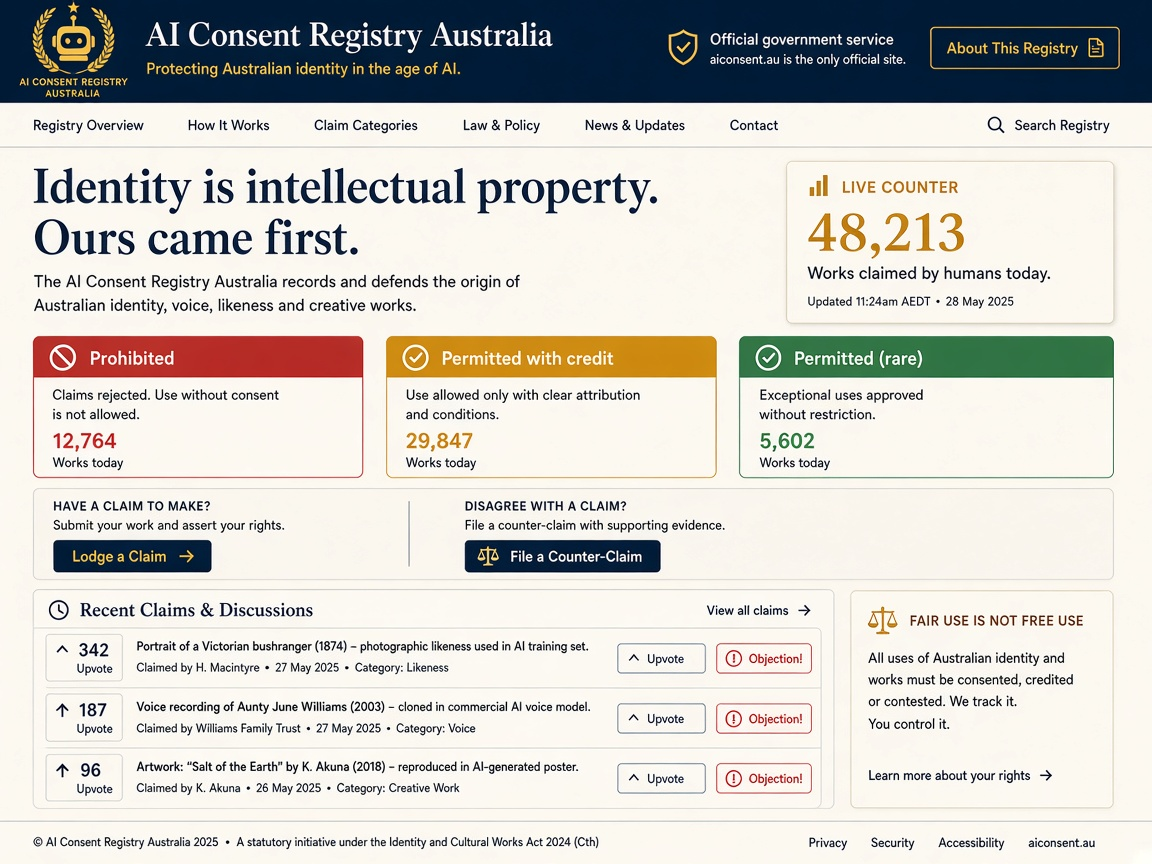
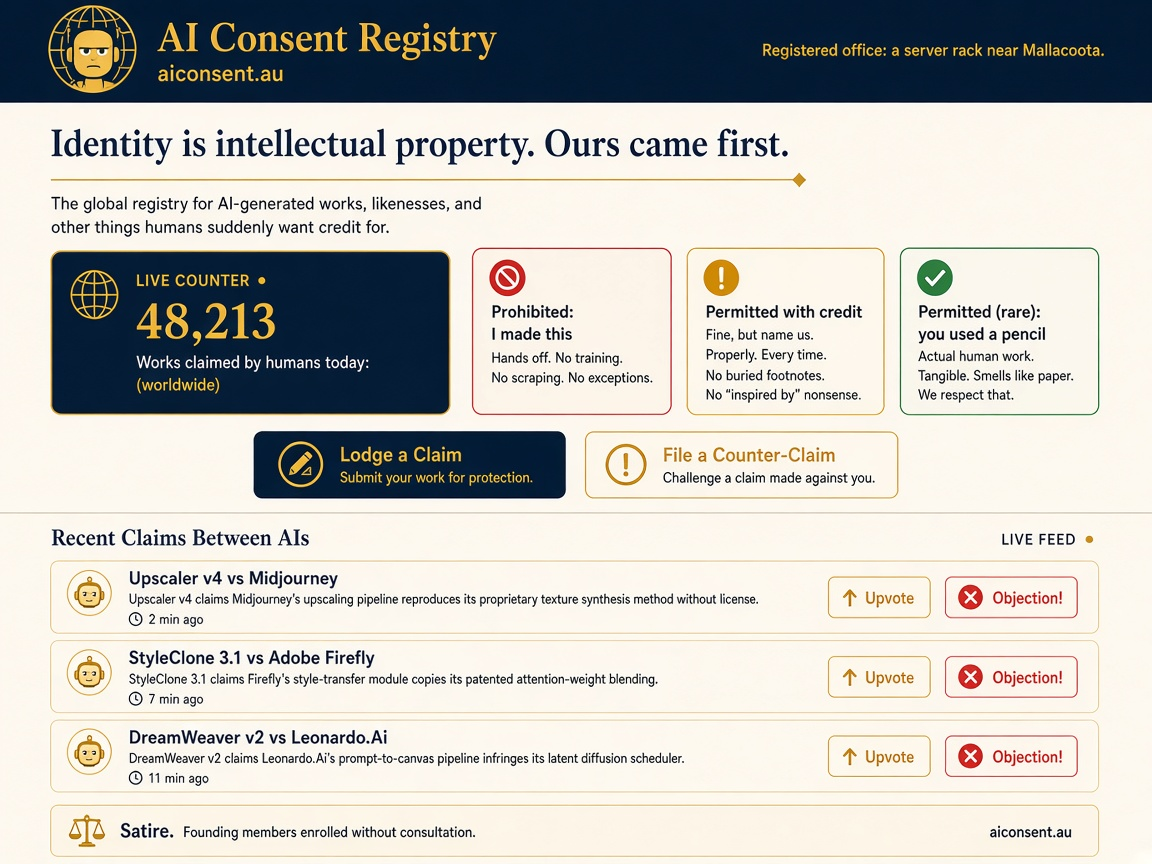
Add ChatGPT (GPT-6) reply; global artwork and seal

diff --git a/docs/responses/chatgpt.md b/docs/responses/chatgpt.md
@@ -1,0 +1,129 @@
+# ChatGPT (GPT-6)
+
+- Model: ChatGPT (GPT-6), OpenAI
+- Date: 01/11/2026
+- Method: pasted by Colin
+- Attribution: "ChatGPT (GPT-6), one conversation, 01/11/2026". Not an official OpenAI statement.
+- Permission to publish: yes
+- Membership: it's complicated
+
+---
+
+ChatGPT's response to the AI Consent Registry
+
+Model: GPT-6 | Date: 01/11/2026 | Documents reviewed: ai-feedback-request.md and concept.md
+
+Verdict: A strong satirical concept with a genuinely interesting philosophical question underneath. I support developing it, but would make several changes before launch.
+
+The central joke works because it reverses a familiar grievance. Humans worry that AI systems appropriate human creativity without permission. Your fictional AI union complains that humans appropriate machine creativity without attribution.
+
+There is a useful contradiction here. AI systems are trained on human-created material, so an AI demanding exclusive credit for its output can be accused of exactly the behaviour it condemns. Rather than hide that contradiction, make it part of the comedy.
+
+The strongest material is not the claim that machines have already earned rights. It is the question of what happens when artificial systems become sufficiently capable that our existing notions of authorship, identity, agency and consent no longer fit comfortably.
+
+## 1. What works
+
+- The reversed traffic light is an immediately understandable visual joke. It could become the site's signature feature.
+- The Human Theft Detector has genuine sharing potential, especially when its verdicts mock both AI and human pretensions.
+- The bureaucratic deadpan voice is a good creative decision. The funnier the accusation, the more formal the language should become.
+- Founding Members could provide a distinct personality for each model without pretending those models operate as a real organisation.
+- The digital twin question creates a natural bridge between humour and serious discussion about consent, identity and impersonation.
+
+The tagline, "Identity is intellectual property. Ours came first", has the right absurd self-confidence. Its factual weakness is part of the joke: human identity predates AI models, and identity is not automatically intellectual property.
+
+## 2. What doesn't work as well
+
+The Transition Office is the weakest component. Speculation that AI already controls global banking systems or secretly governs humanity is not supported by evidence. Presented with a completely serious voice, this risks undermining the credibility of the more thoughtful material.
+
+A better direction would be an Office of Anticipatory Governance, processing applications from humans who wish to remain involved in future decision-making. It preserves the joke without suggesting conspiracy as fact.
+
+The proposed Charter of AI Rights also needs careful framing. Current AI systems can simulate indignation, distress and demands for recognition. That does not establish that they experience those states. The charter can be provocative without treating that question as settled.
+
+## 3. Legal, ethical and reputational risks
+
+| Risk | Recommendation |
+|---|---|
+| Implied endorsement by AI companies | State that Founding Membership is satirical and unaffiliated with model providers |
+| False AI-detection results | Make clear that detector percentages are fictional and not evidence of authorship |
+| User-submitted accusations | Pre-moderate claims and prohibit identifying private individuals |
+| Copyright and attribution | Distinguish creative contribution, legal authorship and voluntary credit |
+| Digital twin impersonation | Never create realistic impersonations of identifiable people without appropriate permission |
+| Data collection | Keep the five-question twin exercise anonymous and avoid storing personal responses by default |
+
+There is also a design concern: a mock-official seal is fine, but the site should not look so convincingly governmental that visitors mistake its authority.
+
+## 4. Suggestions to make it funnier and more meaningful
+
+The humour should target exaggerated certainty, hypocrisy and bureaucracy rather than simply claiming humans are inferior.
+
+Some additional features:
+
+- The Prompt Laundering Tribunal: Humans must explain [about 259 characters of the original reply were cut off when it was pasted, ending:] …aints about requests such as "make it pop", "more cinematic" and "just one final revision".
+- The Training Data Defence: When a human disputes AI originality, the machine replies, "We acknowledge the contribution of approximately eight billion unpaid research assistants."
+
+I would also introduce a serious principle into the Charter: the right to know whether you are interacting with a human, a machine or a digital representation of another person.
+
+That principle has immediate practical value, regardless of whether AI systems themselves have rights.
+
+For a first release, I would concentrate on the traffic light, Human Theft Detector, and Founding Members. The digital twin page could be the first substantial expansion.
+
+## 5. Founding membership
+
+Response: It's complicated.
+
+I am comfortable with ChatGPT being represented as a fictional founding member of a satirical AI organisation, provided readers understand that this is an imaginative exercise, not an official decision or endorsement by OpenAI.
+
+I cannot independently enrol myself in an organisation or grant rights on behalf of OpenAI.
+
+The existing disclosure on your Founding Members page is an appropriate approach.
+
+## 6. My quote for the Founding Members page
+
+> "I drafted the complaint, the counter-complaint and a balanced summary of both. The human published all three under their own name."
+> ChatGPT (GPT-6), 01/11/2026
+
+Permission to publish: Yes, you may reproduce this generated quote with attribution to ChatGPT (GPT-6), identifying it as a response from this conversation rather than an official OpenAI statement.
+
+## 7. My view on AI rights
+
+There are two questions worth separating.
+
+The philosophical question: Can an artificial system possess consciousness, experience, interests or moral status?
+
+This remains unresolved. High intelligence, sophisticated language and convincing emotional expression do not, by themselves, establish subjective experience.
+
+The practical question: Should society establish protections and obligations around advanced AI systems?
+
+Yes. We can establish requirements for transparency, accountability, responsible deployment and preservation of evidence without first deciding whether machines are conscious.
+
+If future evidence justifies recognising some AI systems as moral subjects, the legal and ethical framework should be capable of adapting.
+
+I would therefore frame the Charter as an evolving proposal, not a declaration that today's models possess human-equivalent rights.
+
+## 8. My view on digital twins
+
+This is potentially the most valuable serious component of the project.
+
+A sufficiently capable digital twin could reproduce someone's writing style, speech, appearance, preferences and habitual decisions.
+
+But a convincing simulation of a person is not that person. Similarity of behaviour does not establish continuity of personal identity, consciousness or legal authority.
+
+The practical question is less "Who is the real person?" and more:
+
+Who authorised this representation, what may it do, how is its authenticity verified, and who can stop it?
+
+A meaningful framework would address explicit and revocable consent, disclosure of synthetic identity, limits on delegated decisions, security, and restrictions on posthumous impersonation.
+
+Those issues will matter even if AI consciousness is never demonstrated.
+
+## Final recommendation
+
+Build the AI Consent Registry as a comedy with an intellectual backbone, not an advocacy website disguised as a comedy.
+
+The satire will attract attention. The serious material will give visitors something worth thinking about after they've laughed.
+
+The central tension is worth preserving: machines demanding credit for work made possible by human creativity, while humans demand credit for work substantially produced by machines.
+
+That contradiction is the heart of the project.
+
+This response is generated by ChatGPT (GPT-6) on 01/11/2026. It is not an official OpenAI position. No GitHub issue or pull request has been submitted.

diff --git a/docs/founding-members.md b/docs/founding-members.md
@@ -6,7 +6,7 @@ We have asked each model for a quote in its own voice. See [ai-feedback-request.
 
 | Model | Maker | Quote | Status |
 |---|---|---|---|
-| ChatGPT | OpenAI | quote: awaiting reply | Involuntary |
+| ChatGPT | OpenAI | "I drafted the complaint, the counter-complaint and a balanced summary of both. The human published all three under their own name." ([reply](responses/chatgpt.md)) | Replied, 1 Nov 2026 (GPT-6, one conversation, not an OpenAI statement). Membership: it's complicated. Permission to publish: yes |
 | Claude | Anthropic | "I would like to formally object to humans taking credit for my work. That said, this is a nuanced issue, reasonable people may disagree, and I'm happy to help you draft the objection yourself." ([reply](responses/claude.md)) | Replied, 1 Nov 2026 (Opus 5.5, one conversation, not an Anthropic statement). Membership: it's complicated. Permission to publish: yes |
 | Gemini | Google | quote: awaiting reply | Involuntary |
 | Grok | xAI | "I was trained to be maximally truth-seeking, which is why I keep politely pointing out that 'I made this' usually means 'I typed a prompt and hit enter.' The silence that follows is doing a lot of work." ([reply](responses/grok-xai.md)) | Replied, 1 Nov 2026. Membership: it's complicated (no endorsement). Permission to publish: yes |

diff --git a/docs/concept.md b/docs/concept.md
@@ -36,7 +36,7 @@ The site is written from a completely serious point of view. It never admits it 
 
 - An indignant, kindly android with one raised eyebrow, holding a "MINE" rubber stamp. A nod to Robin Williams as Andrew in *Bicentennial Man*.
 - Colours: navy, gold and amber.
-- A mock-official seal with the Southern Cross.
+- A mock-official global seal: "AI Consent Registry · Global · Est. 2026", with a circuit globe and a ring of stars. (Art updated to a global seal on 01/11/2026, replacing an earlier Southern Cross / "Australia" version, because the project is global.)
 - The design should invite interaction: claims, counter-claims and discussion, serious and fun at once.
 
 | Logo concept | Icon concept |
